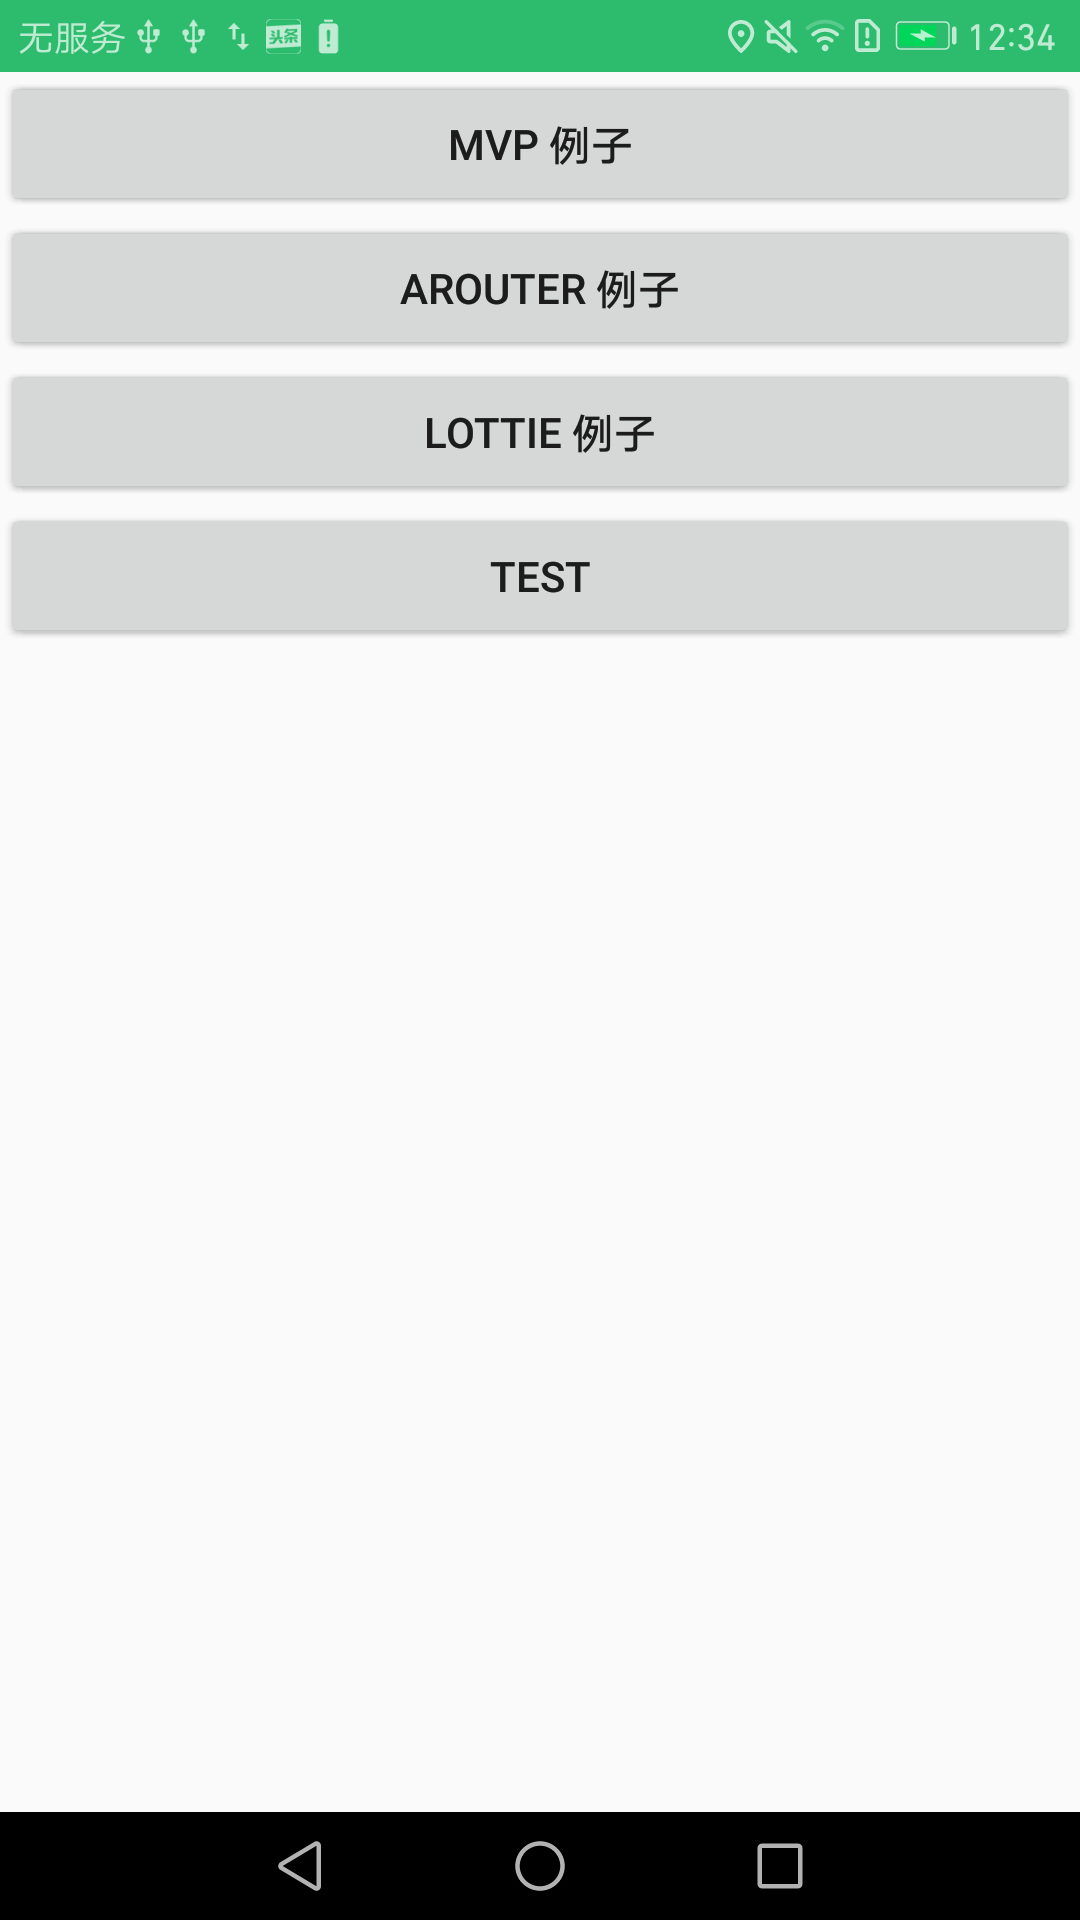
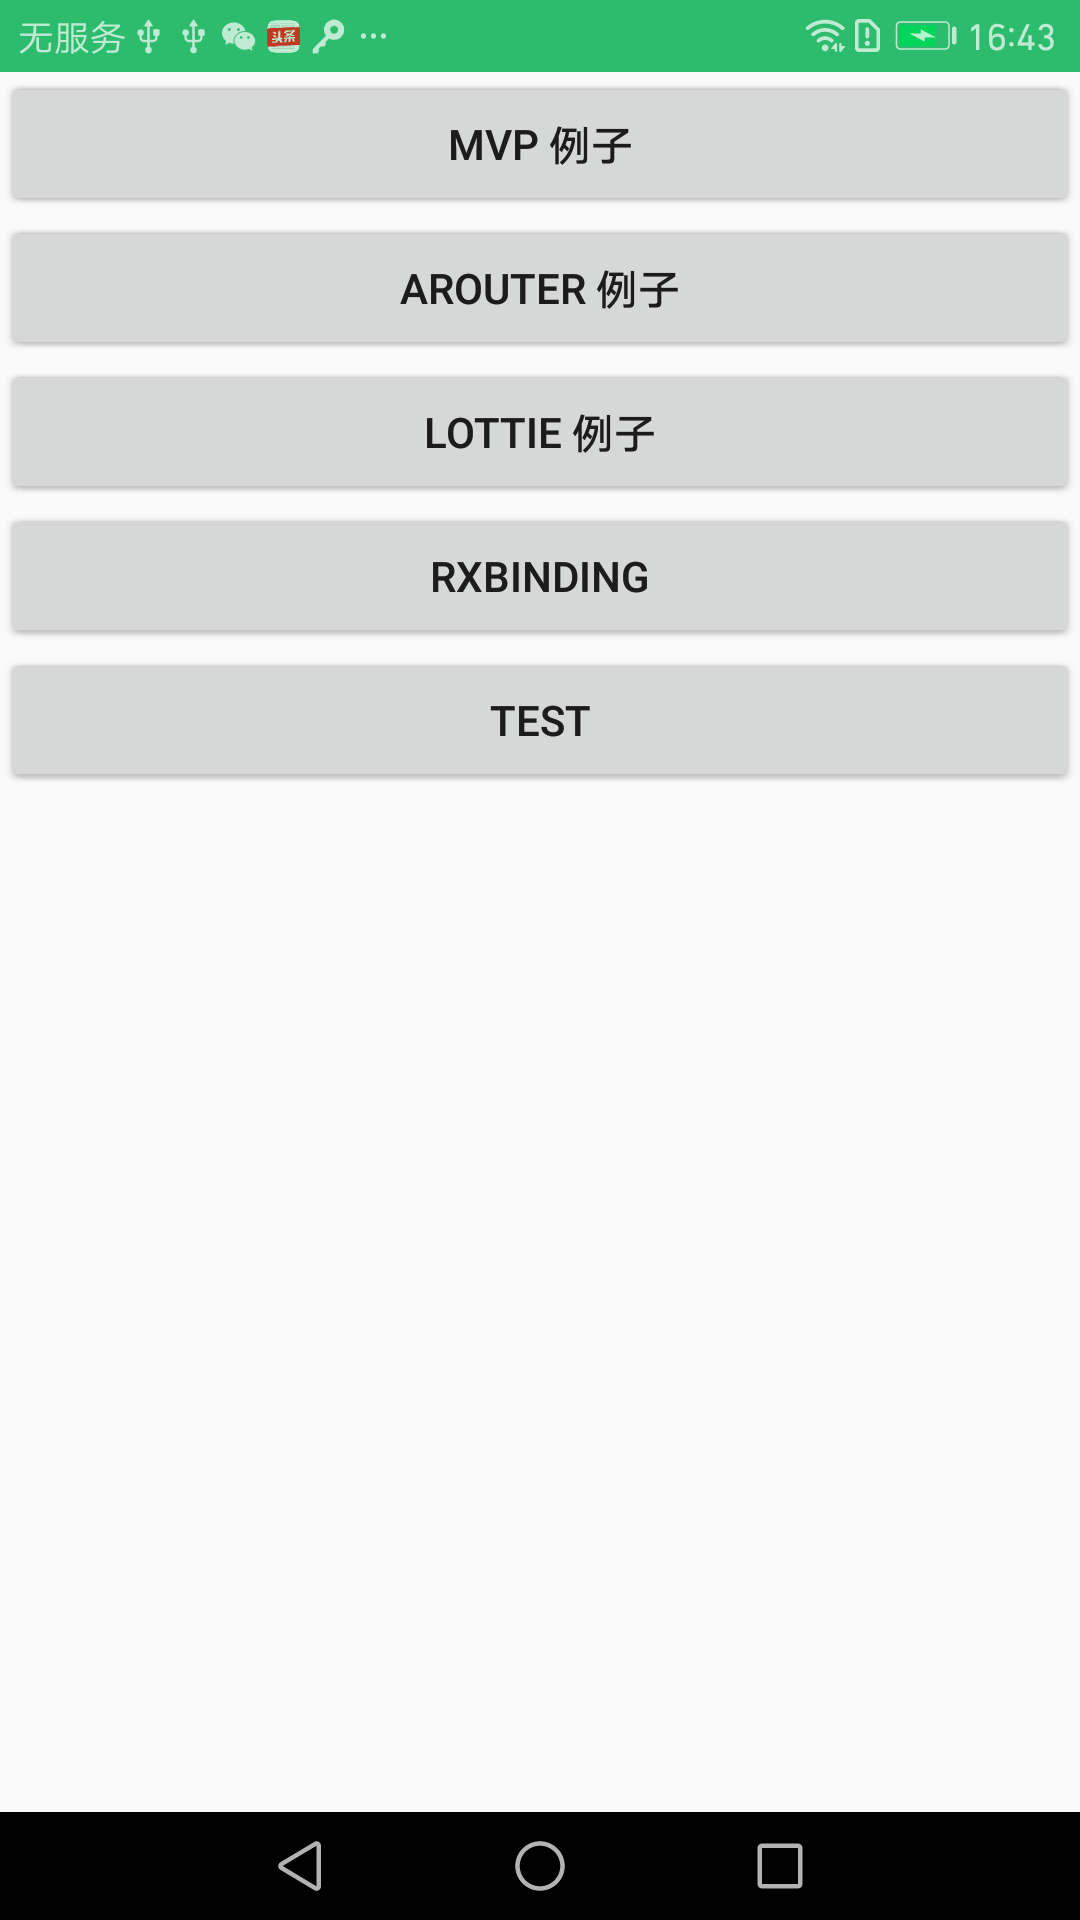
rx

diff --git a/rxbindingmodule/src/main/java/com/example/rxbindingmodule/RxbindingActivity.java b/rxbindingmodule/src/main/java/com/example/rxbindingmodule/RxbindingActivity.java
@@ -1,37 +1,38 @@
 package com.example.rxbindingmodule;
 
+import android.Manifest;
 import android.os.Bundle;
 import android.support.v7.widget.AppCompatCheckBox;
-import android.util.Log;
-import android.view.TextureView;
+import android.text.TextUtils;
 import android.widget.Button;
 import android.widget.EditText;
-
+import butterknife.BindView;
 import com.alibaba.android.arouter.facade.annotation.Route;
-import com.alibaba.android.arouter.utils.TextUtils;
 import com.jakewharton.rxbinding.view.RxView;
 import com.jakewharton.rxbinding.widget.RxCompoundButton;
 import com.jakewharton.rxbinding.widget.RxTextView;
 import com.jzhu.study.baselibrary.base.BaseActivity;
-import com.jzhu.study.baselibrary.base.utils.ToastUtils;
-
-import java.util.List;
-import java.util.concurrent.TimeUnit;
-
-import butterknife.BindView;
+import com.tbruyelle.rxpermissions.RxPermissions;
 import rx.Observable;
 import rx.Observer;
-import rx.Subscription;
 import rx.android.schedulers.AndroidSchedulers;
 import rx.functions.Action1;
-import rx.functions.Func2;
+import rx.functions.Func1;
 import rx.functions.Func3;
+import rx.schedulers.Schedulers;
+
+import java.util.ArrayList;
+import java.util.List;
+import java.util.concurrent.TimeUnit;
 
 /**
  * Created by jzhu on 2017/5/3.
  */
 @Route(path = "/rxbindingmodule/RxbindingActivity")
 public class RxbindingActivity extends BaseActivity {
+
+    @BindView(R2.id.btn_rxpermissions)
+    Button rxPerimissionsBtn;
 
     @BindView(R2.id.btn_shake)
     Button shakeBtn;
@@ -54,6 +55,9 @@ public class RxbindingActivity extends BaseActivity {
     @BindView(R2.id.et_pwd)
     EditText pwdEt;
 
+    @BindView(R2.id.et_search)
+    EditText searchEt;
+
     @BindView(R2.id.cb_protocol)
     AppCompatCheckBox protocolCb;
 
@@ -74,6 +78,8 @@ public class RxbindingActivity extends BaseActivity {
         initTimerListener();
         initLongClickListener();
         initLoginListener();
+        initPermissionsListener();
+        initSearchListener();
     }
 
     private void initShakeListener() {
@@ -171,7 +177,68 @@ public class RxbindingActivity extends BaseActivity {
             }
         });
 
+    }
 
+    private void initPermissionsListener() {
+        final RxPermissions rxPermissions = new RxPermissions(this);
+        RxView.clicks(rxPerimissionsBtn).
+                throttleFirst(1, TimeUnit.SECONDS)
+              .subscribeOn(AndroidSchedulers.mainThread())
+              .compose(rxPermissions.ensure(Manifest.permission.CAMERA))
+              .subscribe(new Action1<Boolean>() {
+                  @Override
+                  public void call(Boolean granted) {
+                      if (granted) {
+                          showToast("允许camera权限");
+                      }
+                      else {
+                          showToast("拒绝camera权限");
+                      }
+                  }
+              });
+
+    }
+
+    private void initSearchListener() {
+        RxTextView.textChanges(searchEt)
+                  .debounce(500, TimeUnit.MILLISECONDS)
+                  .observeOn(AndroidSchedulers.mainThread())
+                  .map(new Func1<CharSequence, String>() {
+                      @Override
+                      public String call(CharSequence charSequence) {
+                          String searchKey = charSequence.toString();
+                          if (TextUtils.isEmpty(searchKey)) {
+                              showToast("搜索关键字不能为null");
+                          }
+                          else {
+                              showToast("0.5秒内没有操作，关键字:" + searchKey);
+                          }
+                          return searchKey;
+                      }
+                  })
+                  .observeOn(Schedulers.io())
+                  .map(new Func1<String, List<String>>() {
+                      @Override
+                      public List<String> call(String searchKey) {
+                          return search(searchKey);
+                      }
+                  })
+                  .observeOn(AndroidSchedulers.mainThread())
+                  .subscribe(new Action1<List<String>>() {
+                      @Override
+                      public void call(List<String> strings) {
+
+                      }
+                  });
+
+    }
+
+    private List<String> search(String key) {
+        if (TextUtils.isEmpty(key)) {
+            return null;
+        }
+
+        return new ArrayList<String>();
     }
 
     @Override

diff --git a/README.md b/README.md
@@ -4,7 +4,7 @@
 欢迎大家一起讨论学习  
 感谢 http://gank.io 提供的api帮助学习  
 
-<img src="https://github.com/zhujian1989/mf/blob/master/screenshot/1.png" width="200"> <img src="https://github.com/zhujian1989/mf/blob/master/screenshot/2.png" width="200"> <img src="https://github.com/zhujian1989/mf/blob/master/screenshot/3.png" width="200">
+<img src="https://github.com/zhujian1989/mf/blob/master/screenshot/1.png" width="200"> <img src="https://github.com/zhujian1989/mf/blob/master/screenshot/2.png" width="200"> <img src="https://github.com/zhujian1989/mf/blob/master/screenshot/3.png" width="200"><img src="https://github.com/zhujian1989/mf/blob/master/screenshot/4.png" width="200">
 
 ## 持续更新ing 
 1.  mvp+dagger2  
@@ -13,6 +13,7 @@
 4.  增加拦截器模拟测试数据  
 5.  lottie实践  
 6.  Chuck实践
+7.  RxBinding & RxPermissions
 
 ## 那些年应该学习和实践的第三方库与框架
 
@@ -24,6 +25,8 @@
 [arouter](https://github.com/alibaba/ARouter)  
 [lottie](https://github.com/airbnb/lottie-android)   
 [chuck](https://github.com/jgilfelt/chuck)   
+[RxBinding](https://github.com/JakeWharton/RxBinding)   
+[RxPermissions](https://github.com/tbruyelle/RxPermissions)   
 
  
 
